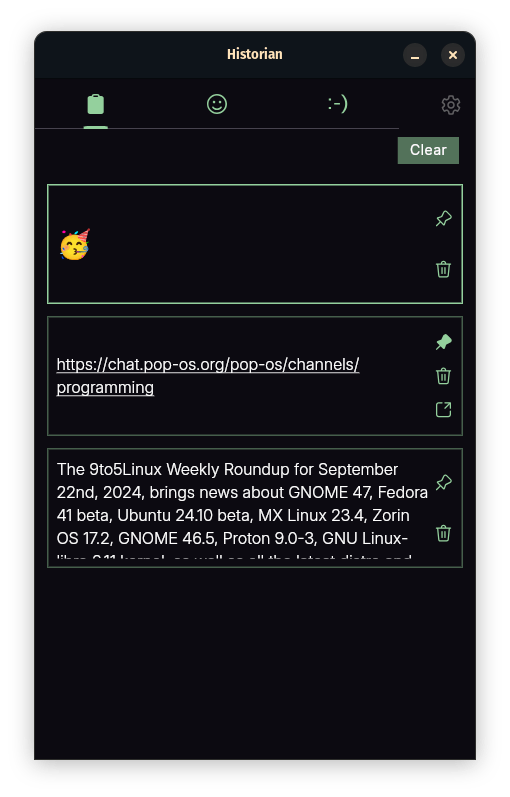
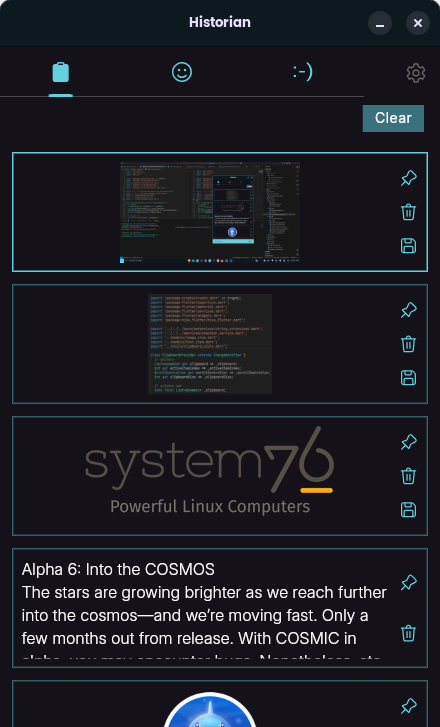
docs(readme): update images and add new screenshot

diff --git a/README.md b/README.md
@@ -27,6 +27,7 @@ flutter pub get
 ```
 
 #### Install wl-clipboard:
+
 ```bash
 sudo apt install wl-clipboard
 ```
@@ -38,44 +39,46 @@ flutter run
 ```
 
 ## Features Working on
-- [X] **Native Text Clipboard Listener**: Replaced dart clipboard listener with `wl-paste` (Wayland only).
-- [ ] **Image support**: Support for images.
+
+- [x] **Native Text Clipboard Listener**: Replaced dart clipboard listener with `wl-paste` (Wayland only).
+- [x] **Image support**: Support for images.
 - [ ] **Code Highlighting**: Supports syntax highlighting for code snippets.
 - [ ] **GIF**: Support for GIF, Search & copy GIF to clipboard to be pasted in supported docx.
 - [ ] **Filters**: Dynamic filters appear at the top based on copied content types, such as text, images, code or GIFs.
 
 ## Features Developed
+
 ### 1. Clipboard Tab
 
-- [X] **Clipboard History**: Displays a list of items copied to the clipboard.
-- [X] **Quick Copy**: Clicking on an item instantly copies it to the clipboard.
-- [X] **Pin/Unpin Items**: Pin important items to prevent them from being cleared.
-- [X] **Delete & Undo**: Remove items with the option to undo.
-- [X] **Clear Clipboard**: Remove all unpinned items.
-- [X] **Web Search**: Copied links will be auto detected & can be launched directly.
+- [x] **Clipboard History**: Displays a list of items copied to the clipboard.
+- [x] **Quick Copy**: Clicking on an item instantly copies it to the clipboard.
+- [x] **Pin/Unpin Items**: Pin important items to prevent them from being cleared.
+- [x] **Delete & Undo**: Remove items with the option to undo.
+- [x] **Clear Clipboard**: Remove all unpinned items.
+- [x] **Web Search**: Copied links will be auto detected & can be launched directly.
 
-- [X] **Keyboard Shortcuts**:
+- [x] **Keyboard Shortcuts**:
   - `arrow-up /-down`: Navigate through clipboard items. Selected item is highlighted.
   - `Ctrl+C`: Copies the currently selected item to the clipboard.
   - `Ctrl+D`: Deletes the currently selected item.
-  - ~~`Ctrl+S`: Saves the currently selected image item~~.
+  - `Ctrl+S`: Saves the currently selected image item~~.
   - `Ctrl+P`: Toggles the pin status of the selected item.
   - `Ctrl+U`: Undoes the last delete action, restoring the most recently deleted item.
   - `Ctrl+L`: Clear all unpinned items in clipboard.
 
 ### 2. Emoji Tab
 
-- [X] **Category Tabbar**: Browse emojis by category, with options for search and recents.
-- [X] **Searchbar**: Search for the required emoji using the searchbar at the top.
-- [X] **Quick Copy**: Clicking on an emoji copies it to the clipboard.
-- [X] **Keyboard Shortcut**:
+- [x] **Category Tabbar**: Browse emojis by category, with options for search and recents.
+- [x] **Searchbar**: Search for the required emoji using the searchbar at the top.
+- [x] **Quick Copy**: Clicking on an emoji copies it to the clipboard.
+- [x] **Keyboard Shortcut**:
   - `Ctrl+S`: Toggles the visibility of the searchbar.
 
 ### 3. Emoticon Tab
 
-- [X] **Searchbar**: Search for the required emoticon using the searchbar at the top.
-- [X] **Quick Copy**: Clicking on an emoticon copies it to the clipboard.
-- [X] **Keyboard Shortcut**:
+- [x] **Searchbar**: Search for the required emoticon using the searchbar at the top.
+- [x] **Quick Copy**: Clicking on an emoticon copies it to the clipboard.
+- [x] **Keyboard Shortcut**:
   - `Ctrl+S`: Toggles the visibility of the searchbar.
 
 ## Settings
@@ -84,17 +87,17 @@ Access the settings page through the settings button, offering various customiza
 
 - **Clipboard Settings**:
 
-  - [X] Enable or disable clipboard monitoring (pause & resume).
-  - [X] Adjust clipboard size (5-30) for optimized memory usage.
+  - [x] Enable or disable clipboard monitoring (pause & resume).
+  - [x] Adjust clipboard size (5-30) for optimized memory usage.
 
 - **Emojis & Emoticons**:
 
-  - [X] Clear recents in Emoji & Emoticon
-  - [X] Emoji Skin Tone
+  - [x] Clear recents in Emoji & Emoticon
+  - [x] Emoji Skin Tone
 
 - **Personalization Settings**:
-  - [X] Customize the app theme color.
-  - [X] Modify border radius for UI components.
+  - [x] Customize the app theme color.
+  - [x] Modify border radius for UI components.
   - [ ] Enable accent colors on the app background with custom values for a more personalized experience.
 
 All configurations are saved and automatically loaded on the next app launch.
@@ -103,16 +106,17 @@ All configurations are saved and automatically loaded on the next app launch.
 
 Historian app continue running in the bg while showing a tray icon for quick access and controls:
 
-- [X] **Show/Hide Window**: Easily toggle the app window visibility.
-- [X] **Pause/Resume Clipboard**: Enable or disable clipboard monitoring directly from the tray.
-- [X] **Status Indicator**: The tray icon changes to indicate whether clipboard is listening or paused.
+- [x] **Show/Hide Window**: Easily toggle the app window visibility.
+- [x] **Pause/Resume Clipboard**: Enable or disable clipboard monitoring directly from the tray.
+- [x] **Status Indicator**: The tray icon changes to indicate whether clipboard is listening or paused.
 
 ## Screenshots
-<img src="./screenshots/0.png" alt="Example Image" width="250">&nbsp;&nbsp;&nbsp;
+
+<img src="./screenshots/0.png" alt="Example Image" width="230">&nbsp;&nbsp;&nbsp;
 <img src="./screenshots/1.png" alt="Example Image" width="250">&nbsp;&nbsp;&nbsp;
 <img src="./screenshots/2.png" alt="Example Image" width="250">&nbsp;&nbsp;&nbsp;
-<img src="./screenshots/3.png" alt="Example Image" width="250"><br><br>
-
+<img src="./screenshots/3.png" alt="Example Image" width="250">&nbsp;&nbsp;&nbsp;
+<img src="./screenshots/4.png" alt="Example Image" width="250"><br><br>
 
 ### License
 
